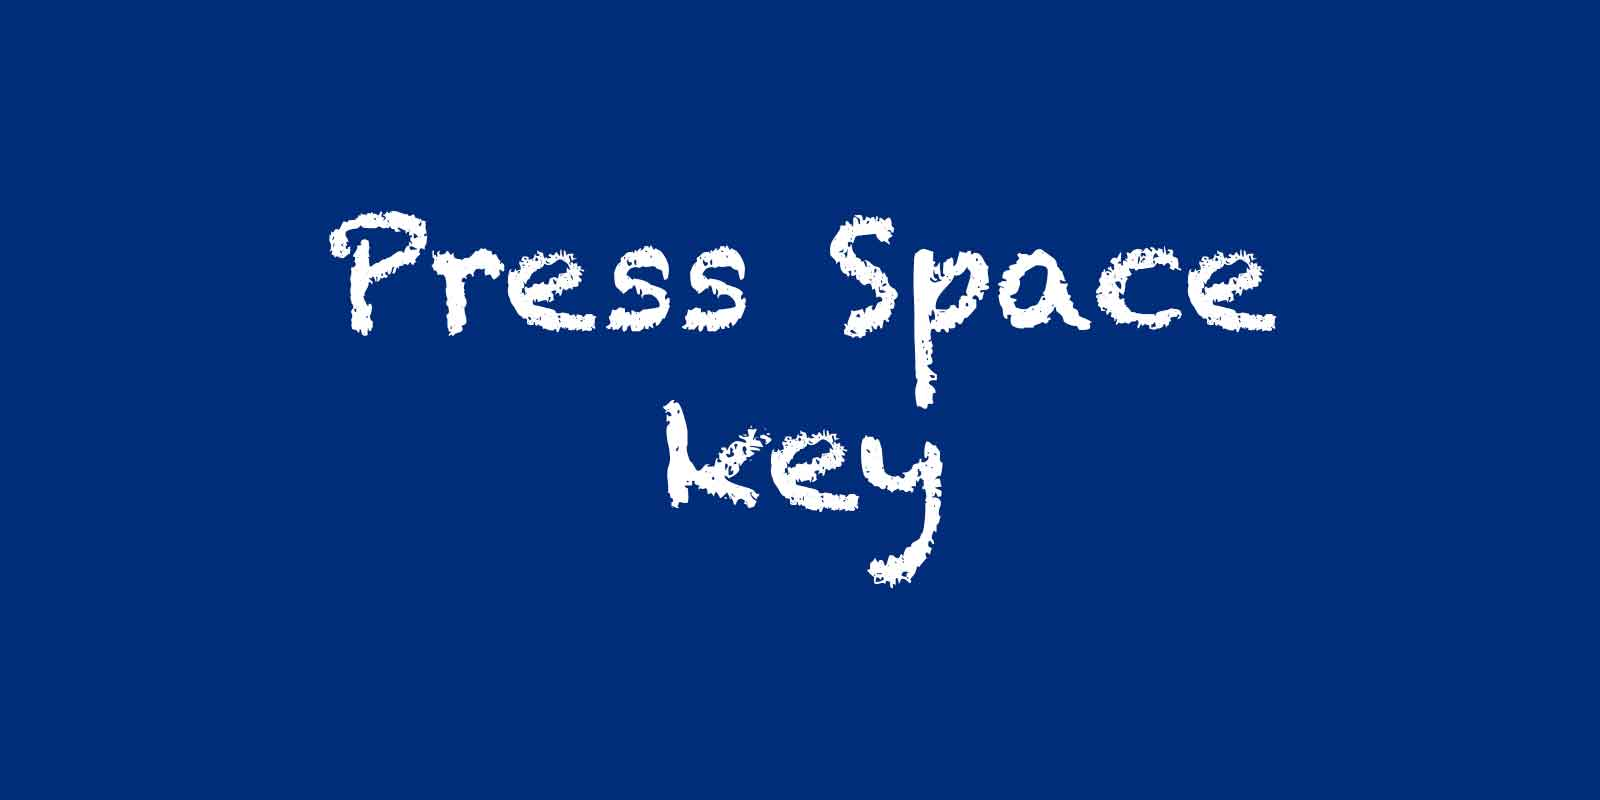
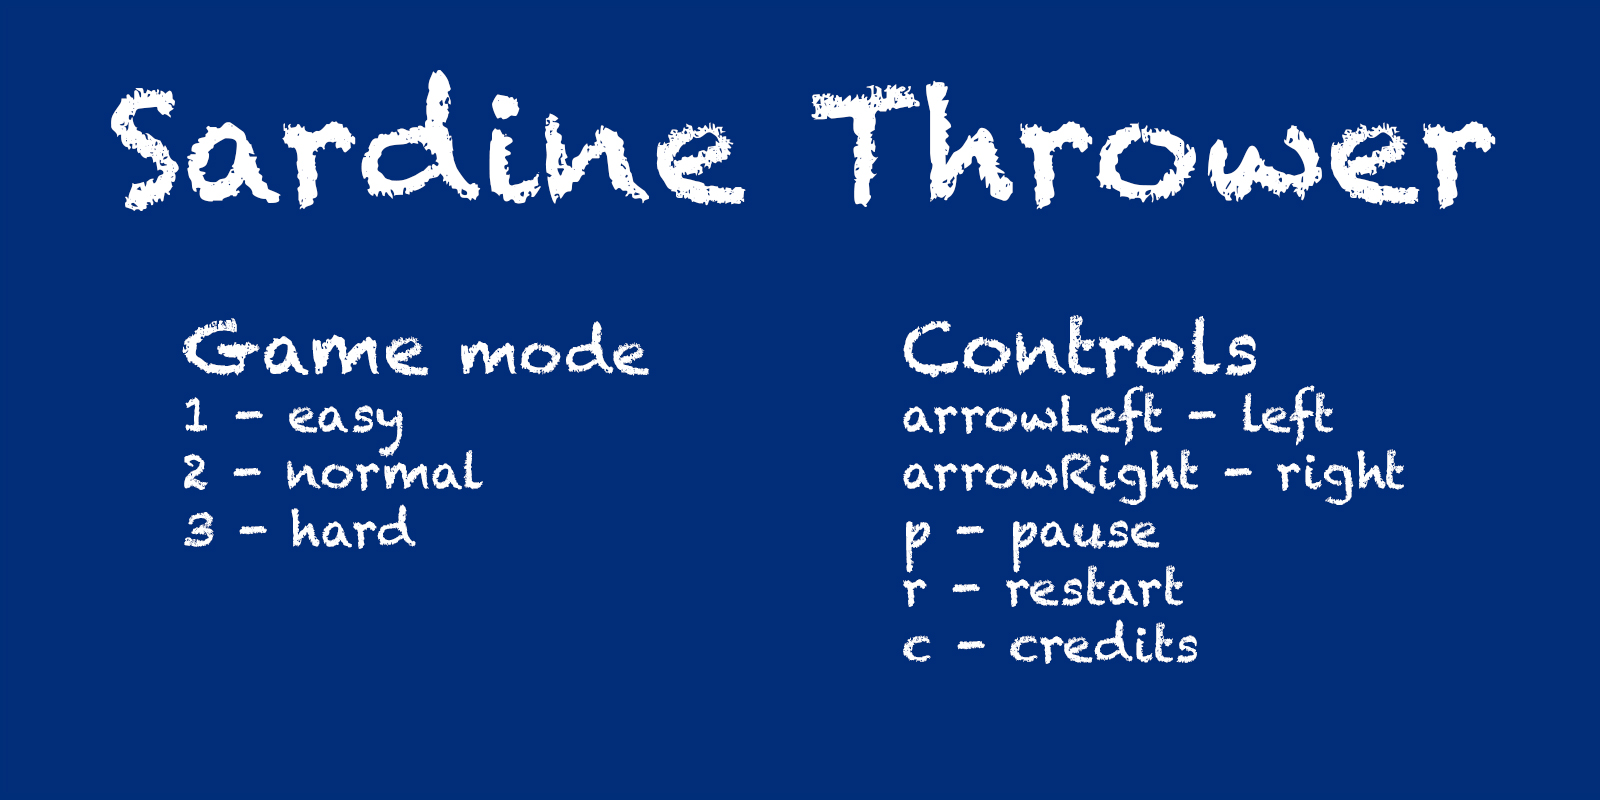
feat: game modes, credits and keyboard bug fix

diff --git a/src/org/academiadecodigo/bootcamp/Controllers/SGFXKeyboard.java b/src/org/academiadecodigo/bootcamp/Controllers/SGFXKeyboard.java
@@ -10,67 +10,158 @@ import org.academiadecodigo.simplegraphics.keyboard.KeyboardHandler;
 
 public class SGFXKeyboard implements KeyboardHandler {
 
-    Player player;
+    private Player player;
+    private Keyboard keyboard;
+    private KeyboardEvent leftPress;
+    private KeyboardEvent rightPress;
+    private KeyboardEvent leftReleased;
+    private KeyboardEvent rightReleased;
+    private KeyboardEvent rPress;
+    private KeyboardEvent pPress;
+    private KeyboardEvent cPress;
+    private KeyboardEvent onePress;
+    private KeyboardEvent twoPress;
+    private KeyboardEvent threePress;
 
     public void initKeyboard(Player player) {
         this.player = player;
-        Keyboard keyboard = new Keyboard(this);
+        keyboard = new Keyboard(this);
 
-        KeyboardEvent leftPress = new KeyboardEvent();
+
+        //Movement
+        leftPress = new KeyboardEvent();
         leftPress.setKey(KeyboardEvent.KEY_LEFT);
         leftPress.setKeyboardEventType(KeyboardEventType.KEY_PRESSED);
+        keyboard.addEventListener(leftPress);
 
-        KeyboardEvent rightPress = new KeyboardEvent();
+        rightPress = new KeyboardEvent();
         rightPress.setKey(KeyboardEvent.KEY_RIGHT);
         rightPress.setKeyboardEventType(KeyboardEventType.KEY_PRESSED);
+        keyboard.addEventListener(rightPress);
 
-        KeyboardEvent leftReleased = new KeyboardEvent();
+        leftReleased = new KeyboardEvent();
         leftReleased.setKey(KeyboardEvent.KEY_LEFT);
         leftReleased.setKeyboardEventType(KeyboardEventType.KEY_RELEASED);
+        keyboard.addEventListener(leftReleased);
 
-        KeyboardEvent rightReleased = new KeyboardEvent();
+        rightReleased = new KeyboardEvent();
         rightReleased.setKey(KeyboardEvent.KEY_RIGHT);
         rightReleased.setKeyboardEventType(KeyboardEventType.KEY_RELEASED);
-
-        KeyboardEvent spacePress = new KeyboardEvent();
-        spacePress.setKey(KeyboardEvent.KEY_SPACE);
-        spacePress.setKeyboardEventType(KeyboardEventType.KEY_PRESSED);
-
-        KeyboardEvent rPress = new KeyboardEvent();
-        rPress.setKey(KeyboardEvent.KEY_R);
-        rPress.setKeyboardEventType(KeyboardEventType.KEY_PRESSED);
-
-        keyboard.addEventListener(leftPress);
-        keyboard.addEventListener(rightPress);
-        keyboard.addEventListener(spacePress);
-        keyboard.addEventListener(rPress);
-        keyboard.addEventListener(leftReleased);
         keyboard.addEventListener(rightReleased);
 
+
+        //Re-Start, Pause and Credits
+        rPress = new KeyboardEvent();
+        rPress.setKey(KeyboardEvent.KEY_R);
+        rPress.setKeyboardEventType(KeyboardEventType.KEY_PRESSED);
+        keyboard.addEventListener(rPress);
+
+        pPress = new KeyboardEvent();
+        pPress.setKey(KeyboardEvent.KEY_P);
+        pPress.setKeyboardEventType(KeyboardEventType.KEY_PRESSED);
+        keyboard.addEventListener(pPress);
+
+        cPress = new KeyboardEvent();
+        cPress.setKey(KeyboardEvent.KEY_C);
+        cPress.setKeyboardEventType(KeyboardEventType.KEY_PRESSED);
+        keyboard.addEventListener(cPress);
+
+
+        //Game level
+        onePress = new KeyboardEvent();
+        onePress.setKey(KeyboardEvent.KEY_1);
+        onePress.setKeyboardEventType(KeyboardEventType.KEY_PRESSED);
+        keyboard.addEventListener(onePress);
+
+        twoPress = new KeyboardEvent();
+        twoPress.setKey(KeyboardEvent.KEY_2);
+        twoPress.setKeyboardEventType(KeyboardEventType.KEY_PRESSED);
+        keyboard.addEventListener(twoPress);
+
+        threePress = new KeyboardEvent();
+        threePress.setKey(KeyboardEvent.KEY_3);
+        threePress.setKeyboardEventType(KeyboardEventType.KEY_PRESSED);
+        keyboard.addEventListener(threePress);
     }
+
+
+    public void endKeyboard() {
+        keyboard.removeEventListener(leftPress);
+        keyboard.removeEventListener(rightPress);
+        keyboard.removeEventListener(leftReleased);
+        keyboard.removeEventListener(rightReleased);
+        keyboard.removeEventListener(rPress);
+        keyboard.removeEventListener(pPress);
+        keyboard.removeEventListener(cPress);
+        keyboard.addEventListener(onePress);
+        keyboard.addEventListener(twoPress);
+        keyboard.addEventListener(threePress);
+    }
+
 
     @Override
     public void keyPressed(KeyboardEvent keyboardEvent) {
 
         switch (keyboardEvent.getKey()) {
 
+            //Movement
             case KeyboardEvent.KEY_LEFT:
                 player.setDirection(Direction.LEFT);
                 break;
             case KeyboardEvent.KEY_RIGHT:
                 player.setDirection(Direction.RIGHT);
                 break;
-            case KeyboardEvent.KEY_SPACE:
-                if (!Game.start) {
-                    Game.start = true;
-                }
-                break;
+
+
+            //Re-Start, Pause and Credits
             case KeyboardEvent.KEY_R:
                 Game.restart = true;
                 Game.start = false;
                 break;
+            case KeyboardEvent.KEY_P:
+                if(Game.start) {
+                    Game.pause = !Game.pause;
+                    break;
+                }
+                break;
+            case KeyboardEvent.KEY_C:
+                if(!Game.start) {
+                    Game.info = !Game.info;
+                    break;
+                }
+                break;
+
+
+            //Game level
+            case KeyboardEvent.KEY_1:
+                if(!Game.start) {
+                    Game.start = true;
+                    Game.easyMode = true;
+                    Game.normalMode = false;
+                    Game.insaneMode = false;
+                    break;
+                }
+                break;
+            case KeyboardEvent.KEY_2:
+                if(!Game.start) {
+                    Game.start = true;
+                    Game.easyMode = false;
+                    Game.normalMode = true;
+                    Game.insaneMode = false;
+                    break;
+                }
+                break;
+            case KeyboardEvent.KEY_3:
+                if(!Game.start) {
+                    Game.start = true;
+                    Game.easyMode = false;
+                    Game.normalMode = false;
+                    Game.insaneMode = true;
+                    break;
+                }
         }
     }
+
 
     @Override
     public void keyReleased(KeyboardEvent keyboardEvent) {

diff --git a/src/org/academiadecodigo/bootcamp/Game.java b/src/org/academiadecodigo/bootcamp/Game.java
@@ -20,13 +20,22 @@ public class Game {
     private Throwable[] poos;
     public static int throwedPoos = 0;
 
+    public static boolean pause;
+    public static boolean info;
+    public static boolean easyMode;
+    public static boolean normalMode;
+    public static boolean insaneMode;
+    private int refreshRate;
+
 
     public Game() {
     }
 
-    public void init(int numThrowables) {
+
+    private void init(int numThrowables) {
         stage = new Picture(10, 10, "background2.jpg");
         stage.draw();
+
 
         throwables = new Throwable[numThrowables];
 
@@ -52,6 +61,10 @@ public class Game {
 
     public void startGame(int numThrowables) {
         restart = false;
+        pause = false;
+        easyMode = false;
+        normalMode = false;
+        insaneMode = false;
 
         this.numThrowables = numThrowables;
 
@@ -60,6 +73,33 @@ public class Game {
         while (!start) {
             try {
                 Thread.sleep(1000);
+
+                if (info) {
+                    Picture infoScreen = new Picture(10, 10, "credits.jpg");
+                    infoScreen.draw();
+                    startScreen.delete();
+
+                    while (info) {
+                        Thread.sleep(500);
+                    }
+                    startScreen.draw();
+                    infoScreen.delete();
+                }
+
+                if (easyMode) {
+                    refreshRate = 7;
+                    continue;
+                }
+
+                if (normalMode) {
+                    refreshRate = 5;
+                    continue;
+                }
+
+                if (insaneMode) {
+                    refreshRate = 4;
+                }
+
             } catch (Exception e) {
                 System.out.println(e);
             }
@@ -69,7 +109,7 @@ public class Game {
         start();
     }
 
-    public void start() {
+    private void start() {
         int throwDelay = 0;
         throwedPoos = 0;
 
@@ -79,12 +119,20 @@ public class Game {
             System.out.println(e);
         }
 
-        for (int i = 0; i < throwables.length - 1; i++) {
+        for (int i = 0; i < throwables.length - 2; i++) {
             while (throwables[i].getOnAir() && player.getHealth() > 0 && start) {
                 try {
-                    Thread.sleep(5);
+                    Thread.sleep(refreshRate);
                 } catch (Exception e) {
                     System.out.println(e);
+                }
+
+                while (pause) {
+                    try {
+                        Thread.sleep(500);
+                    } catch (Exception e) {
+                        System.out.println(e);
+                    }
                 }
 
                 thrower.sendThrowable(throwables[i]);
@@ -102,15 +150,13 @@ public class Game {
                     }
                 }
 
-                /*
-                if (throwDelay > 300) {
+                if (throwDelay > 300 && insaneMode) {
                     thrower.sendThrowable(throwables[i + 2]);
                     if (CatchDectector.catchChecker(throwables[i + 2], player)) {
                         throwables[i + 2].setOnAir(false);
                         score.incrementScore();
                     }
                 }
-                */
 
                 if (throwDelay > 300) {
                     poos[throwedPoos].move();
@@ -127,7 +173,7 @@ public class Game {
             }
         }
 
-        if (start) {
+        if (start || restart) {
             EndGame.displayModal();
 
             while (!restart) {
@@ -137,6 +183,8 @@ public class Game {
                     System.out.println(e);
                 }
             }
+
+            player.endKeyboard();
             startGame(numThrowables);
         }
     }

diff --git a/src/org/academiadecodigo/bootcamp/Movable/Player.java b/src/org/academiadecodigo/bootcamp/Movable/Player.java
@@ -6,6 +6,7 @@ import org.academiadecodigo.simplegraphics.pictures.Picture;
 
 public class Player extends AbstractMovable {
     public Position position;
+    private SGFXKeyboard keyboard;
     private int score = 0;
     private int health = 5;
     private int velocity;
@@ -20,8 +21,12 @@ public class Player extends AbstractMovable {
         picture = new Picture(xPos, yPos, url);             //SFGX
         super.setPicture(picture);                          //SFGX
 
-        SGFXKeyboard sgfxKeyboard = new SGFXKeyboard();     //SFGX
-        sgfxKeyboard.initKeyboard(this);             //SFGX
+        keyboard = new SGFXKeyboard();     //SFGX
+        keyboard.initKeyboard(this);        //SFGX
+    }
+
+    public void endKeyboard() {
+        keyboard.endKeyboard();
     }
 
     public void setScore(int score) {
